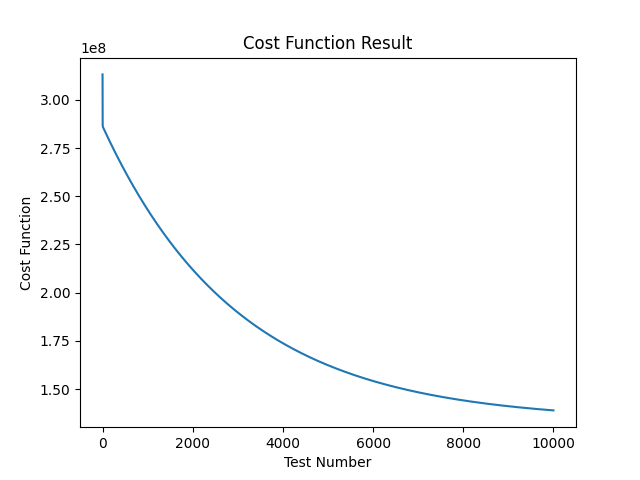
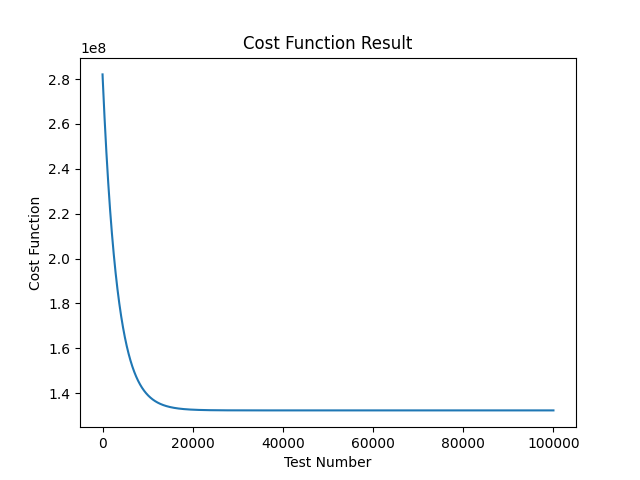
Normalizing Inputs.

diff --git a/main.py b/main.py
@@ -39,23 +39,33 @@ df = pd.read_csv('train.csv').iloc[:1000, :]
 # Converting Non Numeric Values To Numeric Values By Using one_hot_function
 city_rank = {}
 one_hot_encode(city_rank, df['City'])
-df['City Rank'] = [city_rank[x] for x in df['City']]
+rank = [city_rank[x] for x in df['City']]
+rank_norm = numpy.linalg.norm(rank)
+df['City Rank'] = [x / rank_norm for x in rank]
 
 state_rank = {}
 one_hot_encode(state_rank, df['State'])
-df['State Rank'] = [state_rank[x] for x in df['State']]
+rank = [state_rank[x] for x in df['State']]
+rank_norm = numpy.linalg.norm(rank)
+df['State Rank'] = [x / rank_norm for x in rank]
 
 vin_rank = {}
 one_hot_encode(vin_rank, df['Vin'])
-df['Vin Rank'] = [vin_rank[x] for x in df['Vin']]
+rank = [vin_rank[x] for x in df['Vin']]
+rank_norm = numpy.linalg.norm(rank)
+df['Vin Rank'] = [x / rank_norm for x in rank]
 
 make_rank = {}
 one_hot_encode(make_rank, df['Make'])
-df['Make Rank'] = [make_rank[x] for x in df['Make']]
+rank = [make_rank[x] for x in df['Make']]
+rank_norm = numpy.linalg.norm(rank)
+df['Make Rank'] = [x / rank_norm for x in rank]
 
 model_rank = {}
 one_hot_encode(model_rank, df['Model'])
-df['Model Rank'] = [model_rank[x] for x in df['Model']]
+rank = [model_rank[x] for x in df['Model']]
+rank_norm = numpy.linalg.norm(rank)
+df['Model Rank'] = [x / rank_norm for x in rank]
 
 columns = ['Year', 'Mileage', 'City Rank', 'State Rank', 'Vin Rank', 'Make Rank', 'Model Rank']
 x_vector = df.loc[:, columns].to_numpy()
@@ -71,10 +81,11 @@ print('target:')
 print(target)
 
 learning_rate = 0.0000000001
-epoch = 10000
+epoch = 100000
 
 # Setting The Bias Number In This Vector Along Side Of Xi
-w = [((random.random() * 0.0001)) for x in range(len(columns) + 1)]
+w = [((random.random() * 1)) for x in range(len(columns) + 1)]
+w = [((random.random() * 1)) for x in range(len(columns) + 1)]
 print('W:')
 print(w)
 
@@ -93,8 +104,8 @@ for i in range(epoch):
     print('New W:')
     print(w)
     predict = np.dot(x_vector, w)
-    print('Predict:')
-    print(predict)
+    # print('Predict:')
+    # print(predict)
     cost = cost_function_simplified(predict, target)
     print('cost:')
     print(cost)
@@ -112,25 +123,30 @@ plt.show()
 
 ###################################################################
 ##############         My Test          ####################
-# df = pd.read_csv('train.csv')
-# df = pd.read_csv('train.csv').iloc[1100:1110, :]
-#
-# # Converting Non Numeric Values To Numeric Values By Using rank function
-# df['City Rank'] = [one_hot_decode(city_rank, x) for x in df['City']]
-# df['State Rank'] = [one_hot_decode(state_rank, x) for x in df['State']]
-# df['Vin Rank'] = [one_hot_decode(vin_rank, x) for x in df['Vin']]
-# df['Make Rank'] = [one_hot_decode(make_rank, x) for x in df['Make']]
-# df['Model Rank'] = [one_hot_decode(model_rank, x) for x in df['Model']]
-#
-# test_x = df.loc[:, columns].to_numpy()
-# test_bias = np.ones(len(df))
-# test_x = np.c_[test_x, test_bias]
-#
-# df['Predicted Price'] = numpy.dot(test_x, w)
-# plt.plot([x for x in range(len(df))], np.array(df.iloc[:,0].values), color='b')
-# plt.plot([x for x in range(len(df))], np.array(df.loc[:,['Predicted Price']].values), color='r')
-# plt.savefig('My Test On 10 Test date.png')
-# plt.show()
+df = pd.read_csv('train.csv')
+df = pd.read_csv('train.csv').iloc[1570:1590, :]
+
+# Converting Non Numeric Values To Numeric Values By Using rank function
+df['City Rank'] = [one_hot_decode(city_rank, x) for x in df['City']]
+df['State Rank'] = [one_hot_decode(state_rank, x) for x in df['State']]
+df['Vin Rank'] = [one_hot_decode(vin_rank, x) for x in df['Vin']]
+df['Make Rank'] = [one_hot_decode(make_rank, x) for x in df['Make']]
+df['Model Rank'] = [one_hot_decode(model_rank, x) for x in df['Model']]
+
+test_x = df.loc[:, columns].to_numpy()
+test_bias = np.ones(len(df))
+test_x = np.c_[test_x, test_bias]
+
+df['Predicted Price'] = numpy.dot(test_x, w)
+
+print('Total Predicted Price:')
+print(df['Predicted Price'].to_string())
+
+plt.plot([x for x in range(len(df))], np.array(df.iloc[:,0].values), color='b')
+plt.plot([x for x in range(len(df))], np.array(df.loc[:,['Predicted Price']].values), color='r')
+plt.savefig('My Test On 10 Test date.png')
+plt.show()
+exit(0)
 ###################################################################
 df = pd.read_csv('test.csv')
 # just in case that we can see the result, if we get all test.csv file, we get error of merror space due to its huge size
